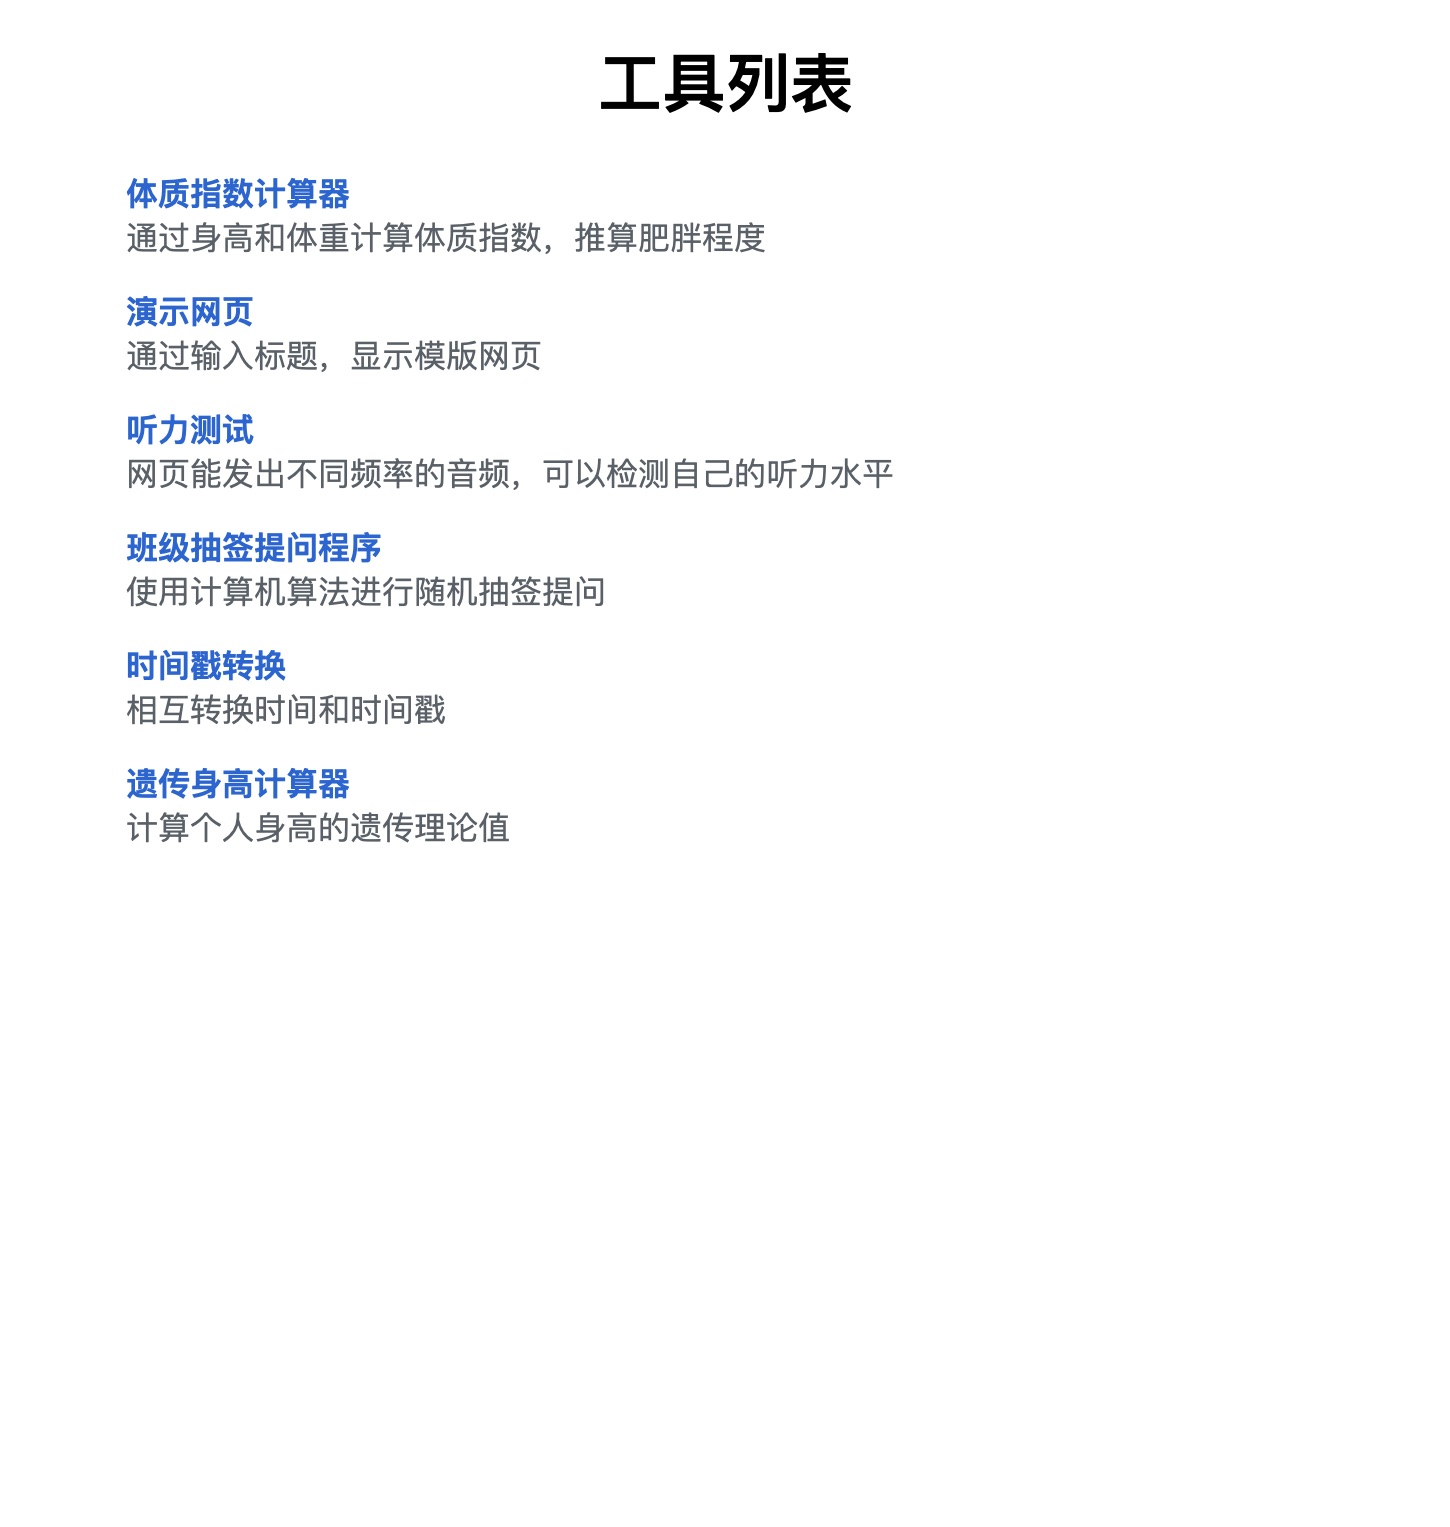
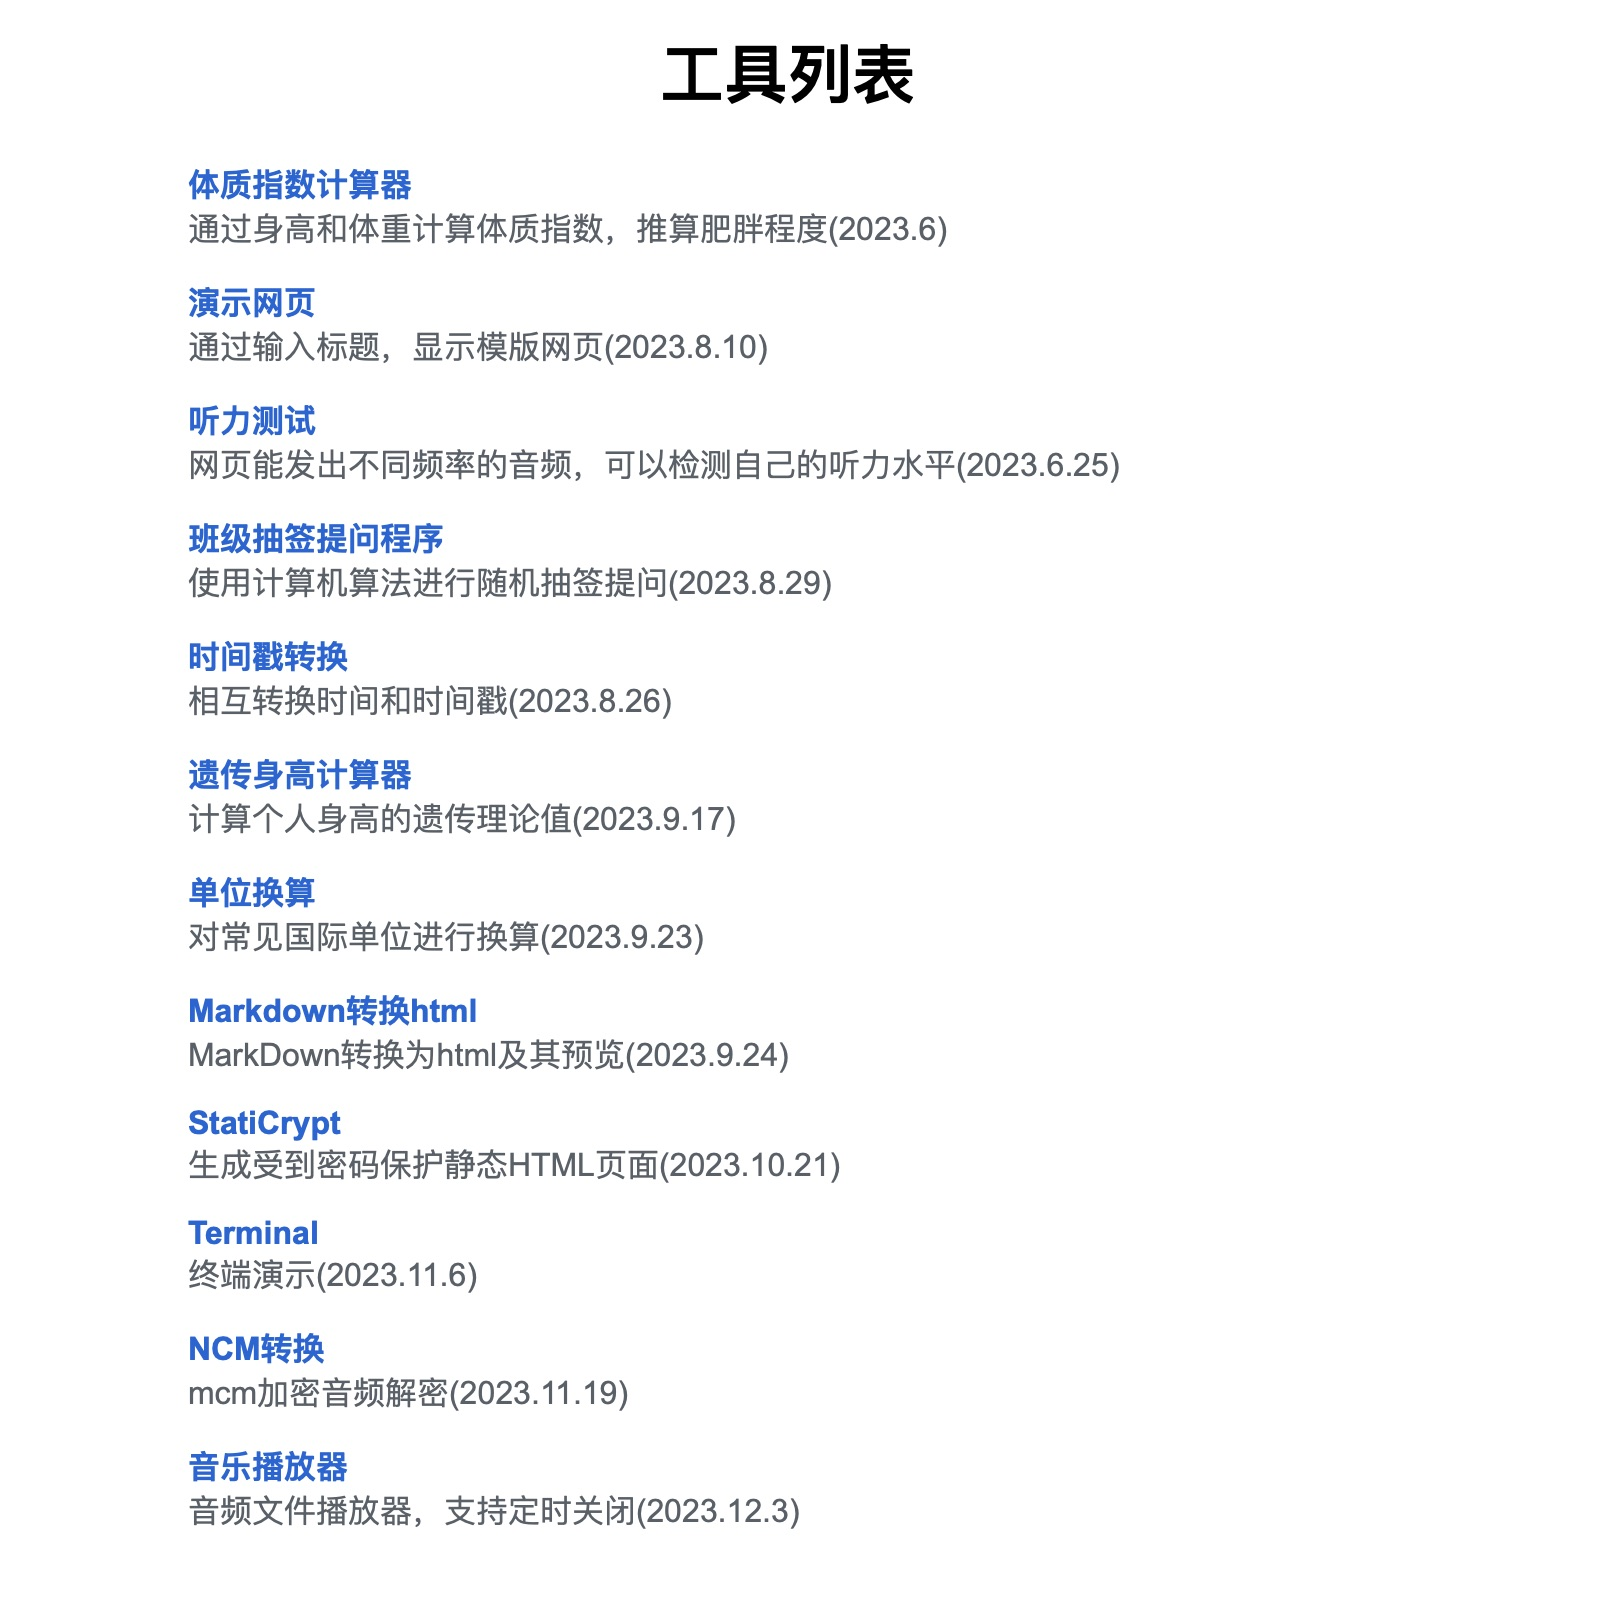
内容

Changed region(s): [[0.0931, 0.0923, 0.6828, 0.5848], [0.0931, 0.6156, 0.5276, 0.9542], [0.4034, 0.0308, 0.5897, 0.0923]]

diff --git a/index.html b/index.html
@@ -540,42 +540,39 @@ data-plan-costs="{&quot;free&quot;:{&quot;price&quot;:0},&quot;pro&quot;:{&quot;
       <div class="d-flex flex-items-end flex-wrap" style="margin-top: -4px">
       <span class="authors-wrap mr-12px mt-1 f5-mktg text-bold"><a class="d-inline-block Link--primary color-fg-default" href="https://github.blog/author/nicchoi29/" title="Nicole Choi">2020.12.31</a></span>
       </div></div></div></div></article></div>	 
-  </div>
-  
-  </div></center>
+  </div></div></center>
 
-<!-- the bottom featured -->
+<!-- 小工具 -->
 <center><div class="d-sm-flex flex-wrap gutter-spacious mt-md-6"style="max-width: 1200px;text-align: left">
-
   <!--
   <hr style="border-top: 5px solid black;max-width: 1200px;align-items: center;">
   <h2 class="h6-mktg section-heading">Engineering</h2>
   <hr style="height: 1px;max-width: 1200px;align-items: center;">
   -->
-
-	<article class="col-sm-6"><div class="py-4 d-flex flex-column featured-bottom-article"><a href="https://github.blog/2023-12-06-how-were-experimenting-with-llms-to-evolve-github-copilot/" class="d-block col-12 position-relative rounded-2 mb-4 overflow-hidden tease-thumbnail"><svg aria-hidden="true" width="1032" height="548" class="width-full height-auto d-block" style="visibility: hidden; pointer-events: none;"></svg><img src="https://github.blog/wp-content/uploads/2023/12/AI-DarkMode-3.png?resize=800%2C425" width="800" height="425" alt="How we’re experimenting with LLMs to evolve GitHub Copilot" class="d-block width-full height-auto rounded-2 tease-thumbnail__img cover-image" loading="lazy" decoding="async" /></a>
+	<article class="col-sm-6"><div class="py-4 d-flex flex-column featured-bottom-article"><a href="./blog/tool/BMICalculator.html" class="d-block col-12 position-relative rounded-2 mb-4 overflow-hidden tease-thumbnail"><svg aria-hidden="true" width="1032" height="548" class="width-full height-auto d-block" style="visibility: hidden; pointer-events: none;"></svg>
+    <img src="./blog/Pricing/BMI.jpeg" width="800" height="425" class="d-block width-full height-auto rounded-2 tease-thumbnail__img cover-image" loading="lazy" decoding="async" /></a>
 		<div class="mb-1">
-			<a href="https://github.blog/category/engineering/" class="f5-mktg text-gradient-purple-coral text-bold pb-1">Engineering</a>
-		</div><h3 class="h4-mktg mb-12px"><a href="https://github.blog/2023-12-06-how-were-experimenting-with-llms-to-evolve-github-copilot/" class="Link--primary">How we’re experimenting with LLMs to evolve GitHub Copilot</a></h3><p class="f4-mktg color-fg-muted">Learn how we’re experimenting with generative AI models to extend GitHub Copilot across the developer lifecycle.</p><div class="mt-14px">
+			<a href="./blog/tool/BMICalculator.html" class="f5-mktg text-gradient-purple-coral text-bold pb-1">BMI Calculator</a>
+		</div><h3 class="h4-mktg mb-12px"><a href="./blog/tool/BMICalculator.html" class="Link--primary">体质指数计算器</a></h3><p class="f4-mktg color-fg-muted">身体质量指数，也就是是BMI（Body Mass Index）指数，简称体质指数，是国际上常用的衡量人体胖瘦程度以及是否健康的一个标准。</p><div class="mt-14px">
  		<div class="d-flex flex-items-center">
- 			
  			<div class="d-flex flex-items-end flex-wrap" style="margin-top: -4px">
- 				<span class="authors-wrap mr-12px mt-1 f5-mktg text-bold"><a class="d-inline-block Link--primary color-fg-default" href="https://github.blog/author/saraverdi/" title="Sara Verdi">Sara Verdi</a></span>
- 				<time datetime="2023-12-06" class="d-inline-block f5-mktg text-mono color-fg-muted mt-1">December 6, 2023</time>
- 			</div>
- 		</div></div></div></article><article class="col-sm-6"><div class="py-4 d-flex flex-column featured-bottom-article"><a href="https://github.blog/2023-12-05-github-enterprise-server-3-11-is-now-generally-available/" class="d-block col-12 position-relative rounded-2 mb-4 overflow-hidden tease-thumbnail"><svg aria-hidden="true" width="1032" height="548" class="width-full height-auto d-block" style="visibility: hidden; pointer-events: none;"></svg><img src="https://github.blog/wp-content/uploads/2023/12/ghes-311-ga-header.png?resize=800%2C425" width="800" height="425" alt="GitHub Enterprise Server 3.11 is here!" class="d-block width-full height-auto rounded-2 tease-thumbnail__img cover-image" loading="lazy" decoding="async" /></a>
+ 				<span class="authors-wrap mr-12px mt-1 f5-mktg text-bold"><a class="d-inline-block Link--primary color-fg-default" href="./blog/tool/BMICalculator.html" title="Sara Verdi">庞玺桐</a></span>
+ 				<time datetime="2023-12-06" class="d-inline-block f5-mktg text-mono color-fg-muted mt-1">June 6, 2023</time>
+ 			</div></div></div></div>
+  </article>
+    
+  <article class="col-sm-6"><div class="py-4 d-flex flex-column featured-bottom-article"><a href="https://github.blog/2023-12-05-github-enterprise-server-3-11-is-now-generally-available/" class="d-block col-12 position-relative rounded-2 mb-4 overflow-hidden tease-thumbnail"><svg aria-hidden="true" width="1032" height="548" class="width-full height-auto d-block" style="visibility: hidden; pointer-events: none;"></svg><img src="./blog/Pricing/player.jpg" width="800" height="425" class="d-block width-full height-auto rounded-2 tease-thumbnail__img cover-image" loading="lazy" decoding="async" /></a>
 		<div class="mb-1">
-			<a href="https://github.blog/category/enterprise/" class="f5-mktg text-gradient-purple-coral text-bold pb-1">Enterprise</a>
-		</div><h3 class="h4-mktg mb-12px"><a href="https://github.blog/2023-12-05-github-enterprise-server-3-11-is-now-generally-available/" class="Link--primary">GitHub Enterprise Server 3.11 is now generally available</a></h3><p class="f4-mktg color-fg-muted">Customers using GitHub Enterprise Server can gain more insight and understanding into the security of their code.</p><div class="mt-14px">
+			<a href="https://github.blog/category/enterprise/" class="f5-mktg text-gradient-purple-coral text-bold pb-1">Player</a>
+		</div><h3 class="h4-mktg mb-12px"><a href="https://github.blog/2023-12-05-github-enterprise-server-3-11-is-now-generally-available/" class="Link--primary">音乐播放器</a></h3><p class="f4-mktg color-fg-muted">单曲循环音乐文件播放器，有定时关闭功能</p><div class="mt-14px">
  		<div class="d-flex flex-items-center">
- 			
  			<div class="d-flex flex-items-end flex-wrap" style="margin-top: -4px">
- 				<span class="authors-wrap mr-12px mt-1 f5-mktg text-bold"><a class="d-inline-block Link--primary color-fg-default" href="https://github.blog/author/davidjarzebowski/" title="David Jarzebowski">David Jarzebowski</a> &amp; <a class="d-inline-block Link--primary color-fg-default" href="https://github.blog/author/mmileski/" title="Melody Mileski">Melody Mileski</a></span>
- 				<time datetime="2023-12-05" class="d-inline-block f5-mktg text-mono color-fg-muted mt-1">December 5, 2023</time>
+ 				<span class="authors-wrap mr-12px mt-1 f5-mktg text-bold"><a class="d-inline-block Link--primary color-fg-default" href="https://github.blog/author/davidjarzebowski/" title="David Jarzebowski">庞玺桐</a> </span>
+ 				<time datetime="2023-12-05" class="d-inline-block f5-mktg text-mono color-fg-muted mt-1">December 3, 2023</time>
  			</div>
  		</div></div></div></article>
 	</div></center>
-    <!-- 年终总结2 -->
+    <!-- 年终总结2 
   <center>
     <div class="homepage-section homepage-section-category-seven-five"style="max-width:1200px;text-align: left">
       <br>
@@ -614,7 +611,7 @@ data-plan-costs="{&quot;free&quot;:{&quot;price&quot;:0},&quot;pro&quot;:{&quot;
          </div>
        </div></div></div></article></div>	</div>
   
-  </div>
+  </div>-->
 
   <!-- GitHub卡片 -->
 <div class="container-xl mx-auto p-responsive-blog"><div class="homepage-section mt-2 mt-md-5 mb-4 mb-md-6">

diff --git a/map.html b/map.html
@@ -247,7 +247,7 @@
               		<li>首页<a href="https://wtcu.github.io/cac/index.html"target="_blank">./index.html</a></li>
               	</ul>
             </ul>
-          <li>MCCU我的世界共产主义联盟(Minecraft Communism Union)</li>
+          <li>Minecraft大同社会服务器(Minecraft Communism Union)</li>
             <ul>
               <li>网址<a href="https://mcjecu.github.io"target="_blank">https://mcjecu.github.io</a></li>
               <li>主页<a href="https://mcjecu.github.io/index.html"target="_blank">./index.html</a></li>

diff --git a/blog/tool/Player.html b/blog/tool/Player.html
@@ -182,7 +182,7 @@
         <button id="timerButton" onclick="setTimer()">确定</button>
       </div>
       <input type="file" id="fileInput" style="display:none;" onchange="handleFileSelect(event)">
-      <button id="uploadButton" onclick="document.getElementById('fileInput').click()">点击上传图片</button>
+      <button id="uploadButton" onclick="document.getElementById('fileInput').click()">点击更换音频</button>
     </div>
   </div>
 
